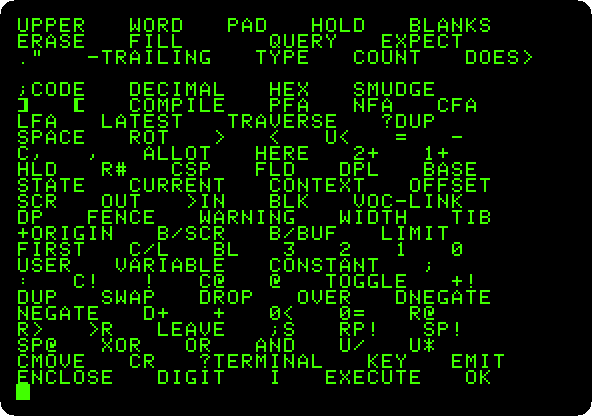
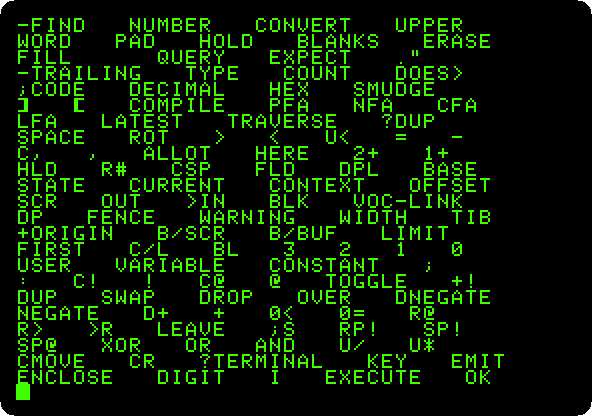
Forth: loops and decisions, memory, the speaker and the graphics
The page defined two words and listed the dictionary. Now it goes on with
words made of words, loops and a decision, and then down to the machine, as
Forth programmers did: the ROM dumped in hexadecimal, the speaker clicked
into a tone, recorded, and the sixteen colours of the low resolution
graphics drawn a byte at a time, in the order of the memory of the screen.

Changed region(s): [[0.4257, 0.0312, 0.9122, 0.2188], [0.0304, 0.0312, 0.4257, 0.2188]]

diff --git a/activities/forth_test.go b/activities/forth_test.go
@@ -14,12 +14,14 @@ const forthMachine = `izapple2 -model _base -board 2plus -cpu 6502 \
 
 /*
 forthScreenshots is an Apple ][+ with Forth in ROM, on a card of Offete
-Industries: switched on, words used and new ones defined, and the
-dictionary listed.
+Industries: switched on, words used and new ones defined, loops and
+decisions, memory read in hexadecimal, the speaker clicked into a tone, the
+low resolution screen painted byte by byte, and the dictionary listed.
 */
 func forthScreenshots(t *testing.T) {
 	pictures := newAlbum("forth", album.Green)
 	o := start(t, forthMachine, nil)
+	sound := album.Listen(o)
 
 	// Switched on, in Forth
 	must(t, o.WaitForText("FORTH", 10))
@@ -39,6 +41,70 @@ func forthScreenshots(t *testing.T) {
 	))
 	words.Run(60, 6)
 	must(t, pictures.SaveRecording(words, "words", 300))
+
+	// Words made of words, loops and a decision
+	must(t, o.TypeLines(
+		": PYRAMID 1+ 1 DO CR I STARS LOOP ;",
+		"8 PYRAMID",
+		": COUNTDOWN BEGIN DUP . 1- DUP 0= UNTIL DROP ;",
+		"10 COUNTDOWN",
+		`: SIGN? 0< IF ." NEGATIVE" ELSE ." NOT NEGATIVE" THEN ;`,
+		"-5 SIGN?",
+	))
+	must(t, o.WaitForText("-5 SIGN? NEGATIVEOK", 10))
+	must(t, o.WaitForKeyboard(10))
+	o.Run(30)
+	must(t, pictures.Screenshot(o, "control"))
+
+	// Memory, in hexadecimal: the first bytes of the Monitor
+	must(t, o.TypeLines("HEX F800 20 DUMP", "FF DECIMAL . HEX"))
+	must(t, o.WaitForText("255 OK", 10))
+	must(t, o.WaitForKeyboard(10))
+	o.Run(30)
+	must(t, pictures.Screenshot(o, "dump"))
+
+	// The speaker, clicked by reading its address, into a tone
+	must(t, o.TypeLines(
+		": CLICK C030 C@ DROP ;",
+		": TONE 0 DO CLICK 20 0 DO LOOP LOOP ;",
+	))
+	must(t, o.WaitForKeyboard(10))
+	from := sound.Now()
+	must(t, o.TypeLines("200 TONE"))
+	must(t, o.WaitForKeyboard(30))
+	o.Run(30)
+	sound.Stop()
+	must(t, pictures.SaveSound(sound.Clip(from, sound.Now()), "tone"))
+
+	// The low resolution graphics, switched on and painted a byte at a time
+	must(t, o.TypeLines(
+		": GRAPHICS C050 C@ DROP C056 C@ DROP C052 C@ DROP ;",
+		": NORMAL C051 C@ DROP 400 400 A0 FILL ;",
+		": BARS 400 0 DO 78 0 DO I 28 MOD 2 * 5 / 11 * J I + 400 + C! LOOP 80 +LOOP ;",
+		": SHOW GRAPHICS BARS KEY DROP NORMAL ;",
+	))
+	must(t, o.WaitForKeyboard(10))
+	o.Run(30)
+	must(t, pictures.Screenshot(o, "graphics-words"))
+	color := pictures.On(album.Color)
+	bars := color.Record(o)
+	must(t, o.TypeLines("SHOW"))
+	bars.Capture(20)
+	if !o.WaitUntil(1, func() bool { return !o.InTextMode() }) {
+		t.Fatal("SHOW did not switch to graphics")
+	}
+	// The bars are done when the last byte of the screen, at the bottom
+	// right, has its colour, the last of the sixteen
+	for o.Apple2().Peek(0x7f7) != 0xff {
+		if o.Frames() > 60*60*5 {
+			t.Fatal("the bars were not drawn")
+		}
+		bars.Run(30, 30)
+	}
+	bars.Run(60, 6)
+	must(t, color.SaveRecording(bars, "bars", 300))
+	must(t, o.Key("Space"))
+	must(t, o.WaitForKeyboard(10))
 
 	// The dictionary, the newest words first
 	must(t, o.TypeLines("VLIST"))

diff --git a/guides/forth.md b/guides/forth.md
@@ -10,7 +10,10 @@ of small computers who found BASIC slow and assembler hard.
 
 Offete Industries sold a card that put FORTH-79 in the ROM of an Apple \]\[+,
 there when the machine is switched on, the way Applesoft is. This page
-switches on that machine, uses some words and defines new ones.
+switches on that machine, uses some words and defines new ones, with loops
+and decisions, and then goes to the machine itself, as Forth programmers
+did: memory read in hexadecimal, the speaker clicked into a tone, and the
+graphics painted a byte at a time.
 
 ## What you need
 
@@ -73,10 +76,94 @@ izapple2 -model forth
    - `STARS` loops from 0 to the number on the stack, and each time `EMIT`
      writes the character 42, an asterisk.
 
+## Loops and decisions
+
+3. **Type these lines**, each with Return:
+
+   ```forth
+   : PYRAMID 1+ 1 DO CR I STARS LOOP ;
+   8 PYRAMID
+   : COUNTDOWN BEGIN DUP . 1- DUP 0= UNTIL DROP ;
+   10 COUNTDOWN
+   : SIGN? 0< IF ." NEGATIVE" ELSE ." NOT NEGATIVE" THEN ;
+   -5 SIGN?
+   ```
+
+   ![Loops and a decision](images/forth/control.png)
+
+   - `PYRAMID` is made of `STARS`, the word you defined before: a word is
+     used the same whether it came in the ROM or you wrote it. `I` is the
+     number of the turn of the loop, and `CR` starts a new line.
+   - `COUNTDOWN` prints the number on the stack and takes one off, `1-`,
+     from `BEGIN` until it is 0.
+   - `SIGN?` decides with `IF`, `ELSE` and `THEN`, which comes last, after
+     what to do in each case. `."` prints the text up to the next quote.
+
+## The machine underneath
+
+4. **Type `HEX`, `F800 20 DUMP`, and `FF DECIMAL . HEX`.** `HEX` makes Forth
+   read and write numbers in hexadecimal, as the addresses of the machine
+   are written, until `DECIMAL`. `DUMP` shows 32 bytes of memory from
+   `F800`, the start of the Monitor in the ROM: its machine code, byte by
+   byte, and its characters at the left.
+
+   ![Memory dumped](images/forth/dump.png)
+
+   `FF DECIMAL .` reads `FF` in hexadecimal and prints it in decimal, 255.
+   Forth stays in hexadecimal now, for the next steps.
+
+5. **Make the speaker sound:**
+
+   ```forth
+   : CLICK C030 C@ DROP ;
+   : TONE 0 DO CLICK 20 0 DO LOOP LOOP ;
+   200 TONE
+   ```
+
+   The speaker of the Apple II is moved by reading the address `C030`:
+   `C@` reads the byte there, and `DROP` throws it away, as the reading is
+   all that matters. `TONE` clicks it as many times as the number on the
+   stack, `200`, 512 in decimal, with an empty loop between two clicks to
+   wait.
+
+   🔊 [Listen to it](images/forth/tone.wav), a low buzz of about four
+   seconds: each turn of the loops runs a few words of Forth, and the clicks
+   come slowly.
+
+6. **Define the words of the graphics:**
+
+   ```forth
+   : GRAPHICS C050 C@ DROP C056 C@ DROP C052 C@ DROP ;
+   : NORMAL C051 C@ DROP 400 400 A0 FILL ;
+   : BARS 400 0 DO 78 0 DO I 28 MOD 2 * 5 / 11 * J I + 400 + C! LOOP 80 +LOOP ;
+   : SHOW GRAPHICS BARS KEY DROP NORMAL ;
+   ```
+
+   ![The words of the graphics](images/forth/graphics-words.png)
+
+   Reading `C050` switches the screen to graphics, `C056` to low resolution
+   and `C052` to the whole screen; `C051` back to text. The low resolution
+   graphics are the memory of the text, from `400` to `7FF`, shown as
+   blocks: each byte is two blocks, one above the other, its two halves the
+   colours. `BARS` writes each byte with `C!`, a colour from 0 to 15 by its
+   column, in both halves, `11 *`. `NORMAL` fills the memory with spaces,
+   `A0`, so that the text screen is clean again.
+
+7. **Type `SHOW`, and press a key when the bars are drawn.** Press F6 in
+   izapple2 for colour.
+
+   ![The sixteen colours drawn by Forth](images/forth/bars.gif)
+
+   The screen shows what was in the memory of the text, as blocks, and
+   Forth draws the sixteen colours over it, a byte at a time, in about ten
+   seconds. The order is the order of the memory, not of the lines: the
+   first 128 bytes are the lines 1, 9 and 17, the next ones 2, 10 and 18,
+   and so on, the way Wozniak laid out the memory of the screen.
+
 ## The dictionary
 
-3. **Type `VLIST`.** Forth lists every word it knows, the newest first: the
-   two you defined, and then those of the ROM, down to the first ones, the
+8. **Type `VLIST`.** Forth lists every word it knows, the newest first: the
+   ones you defined, and then those of the ROM, down to the first ones, the
    few in machine code that the rest are built from, `DUP`, `SWAP`, `+`,
    `EMIT`, `KEY`.
 

diff --git a/README.md b/README.md
@@ -106,10 +106,11 @@ full, and the ROM of a card read by it.
 
 ### [Forth in ROM](guides/forth.md)
 
-<a href="guides/forth.md"><img src="guides/images/forth/vlist.png" width="320" alt="The dictionary of Forth"></a>
+<a href="guides/forth.md"><img src="guides/images/forth/bars.gif" width="320" alt="The sixteen colours drawn by Forth"></a>
 
 An Apple \]\[+ that starts in FORTH-79, from a card of Offete Industries:
-words used, new ones defined, and the dictionary.
+words used and new ones defined, loops and decisions, and the machine
+underneath, its memory, its speaker and its graphics, driven from Forth.
 
 
 ### [CP/M on the Z80 SoftCard](guides/cpm.md)
